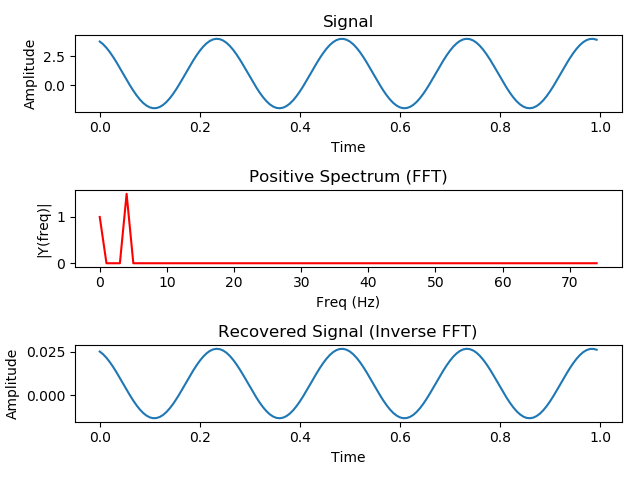
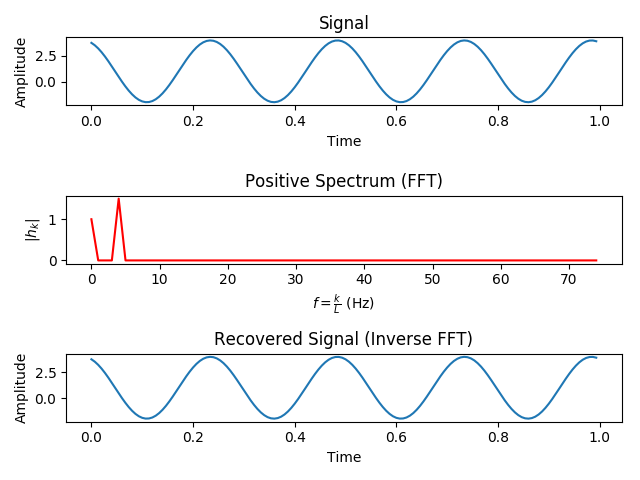
Cos fft test

diff --git a/Assignment 2/test_fft.py b/Assignment 2/test_fft.py
@@ -13,8 +13,8 @@ T = n/Fs
 frq = k/T # two sides frequency range
 frq = frq[range(n/2)] # one side frequency range
 
-Y = np.fft.fft(y)/n # fft computing and normalization
-Y_disp = Y[range(n/2)]
+Y = np.fft.fft(y) # fft computing and normalization
+Y_disp = Y[range(n/2)]/n
 
 inv = np.fft.ifft(Y)
 
@@ -24,8 +24,8 @@ ax[0].set_xlabel('Time')
 ax[0].set_ylabel('Amplitude')
 ax[0].set_title('Signal')
 ax[1].plot(frq,abs(Y_disp),'r') # plotting the spectrum
-ax[1].set_xlabel('Freq (Hz)')
-ax[1].set_ylabel('|Y(freq)|')
+ax[1].set_xlabel(r'$f=\frac{k}{L}$ (Hz)')
+ax[1].set_ylabel('$|h_k|$')
 ax[1].set_title('Positive Spectrum (FFT)')
 ax[2].plot(t,inv)
 ax[2].set_xlabel('Time')
